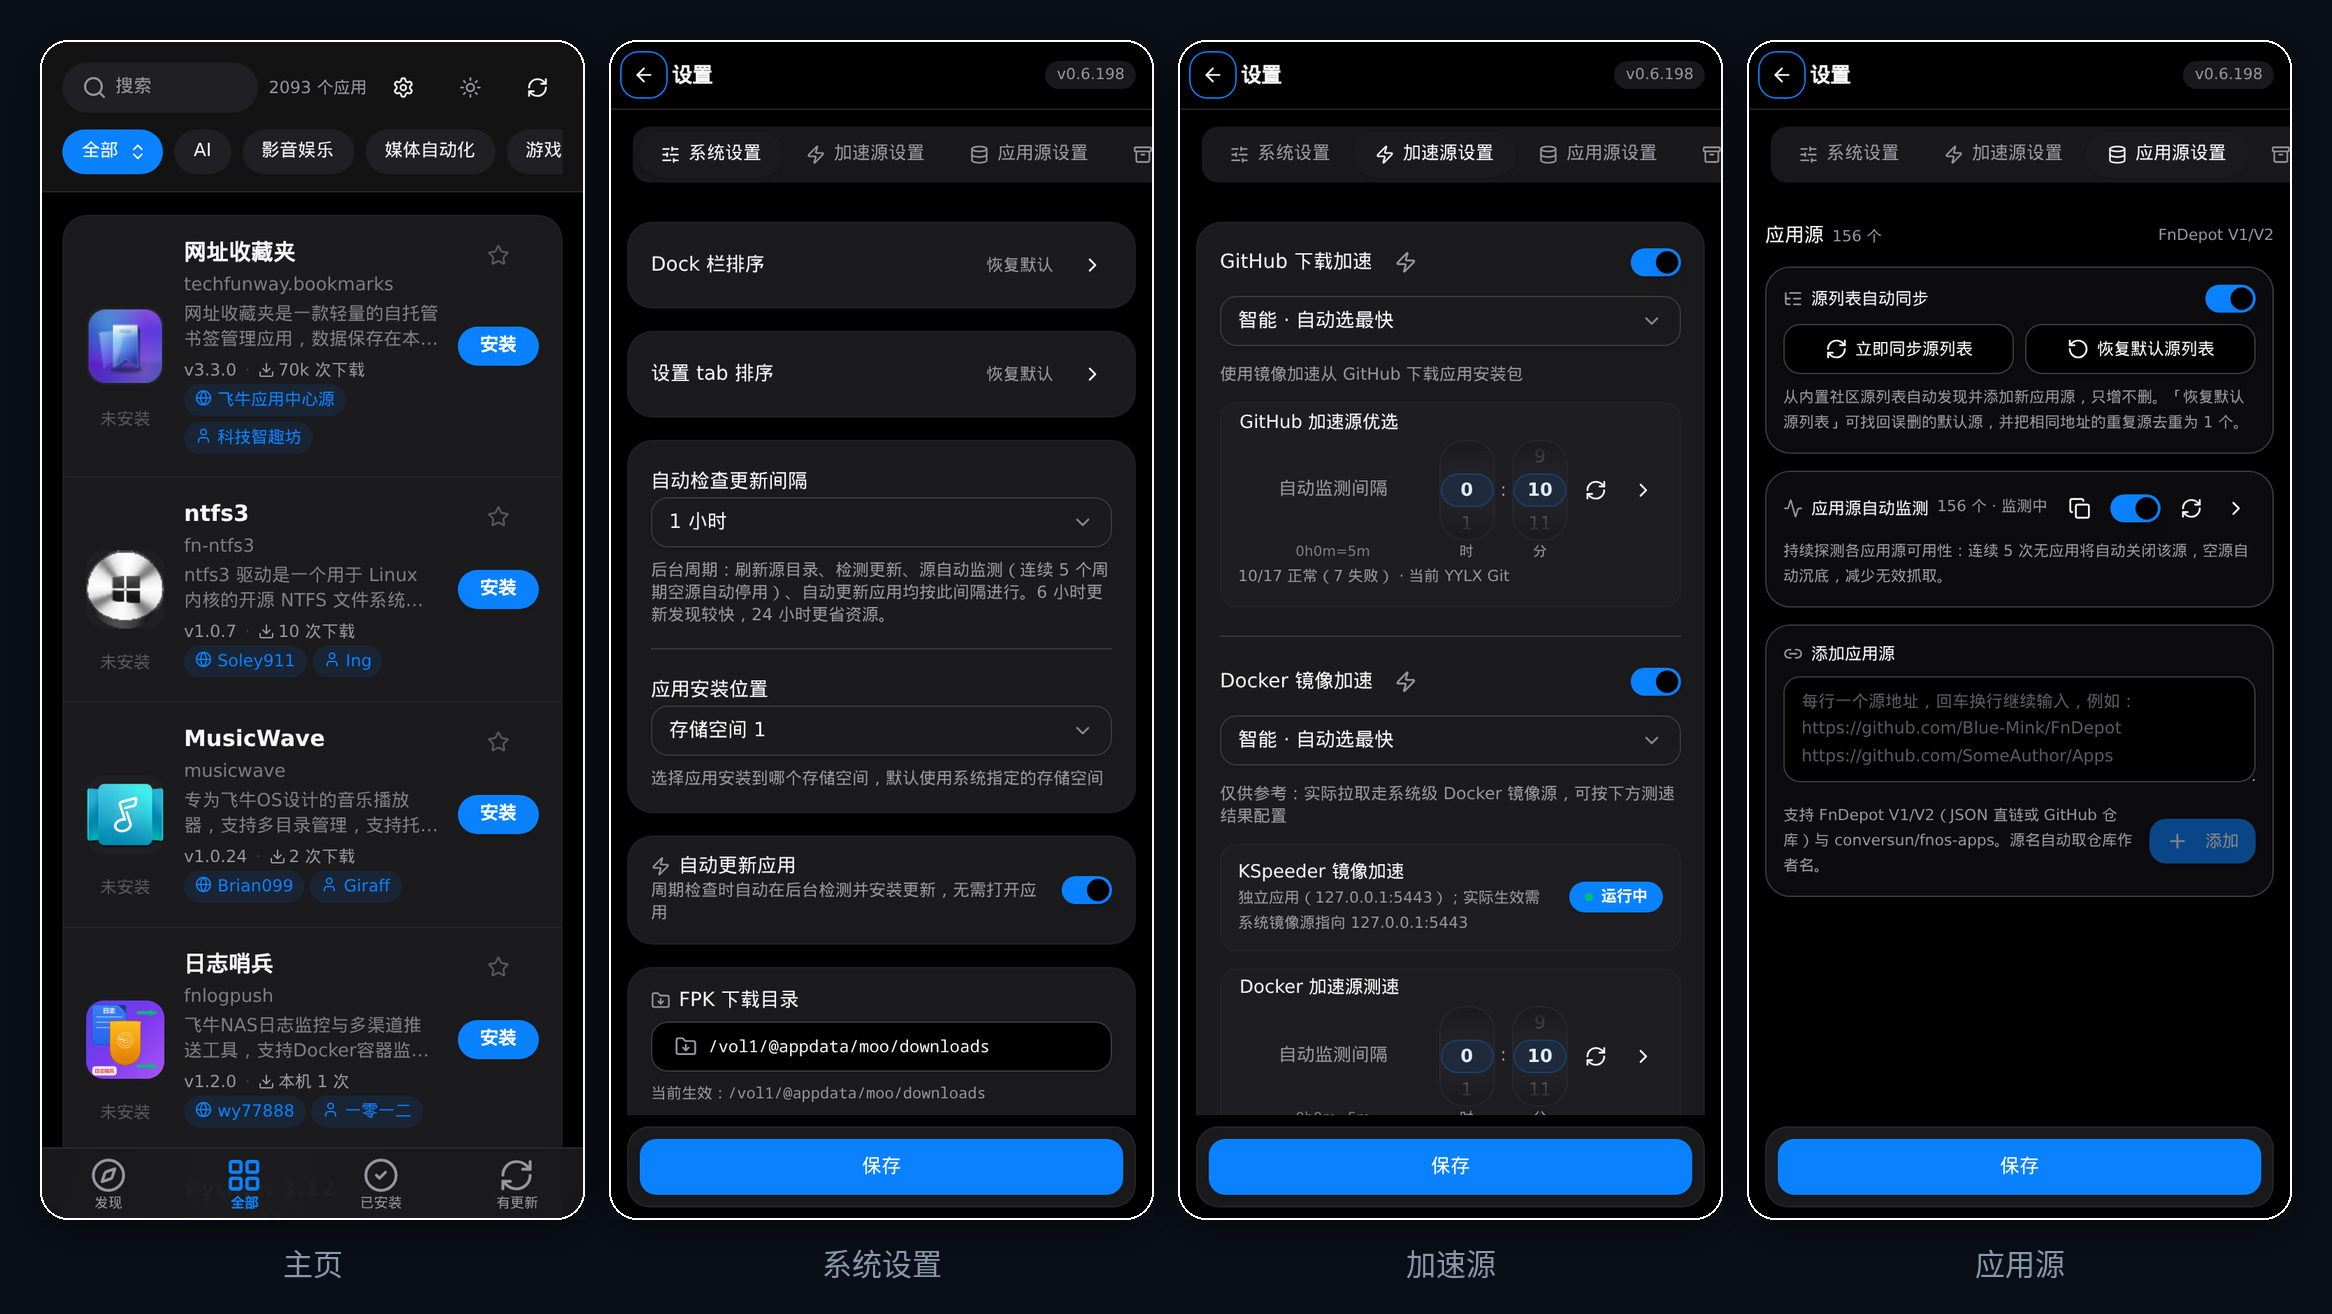
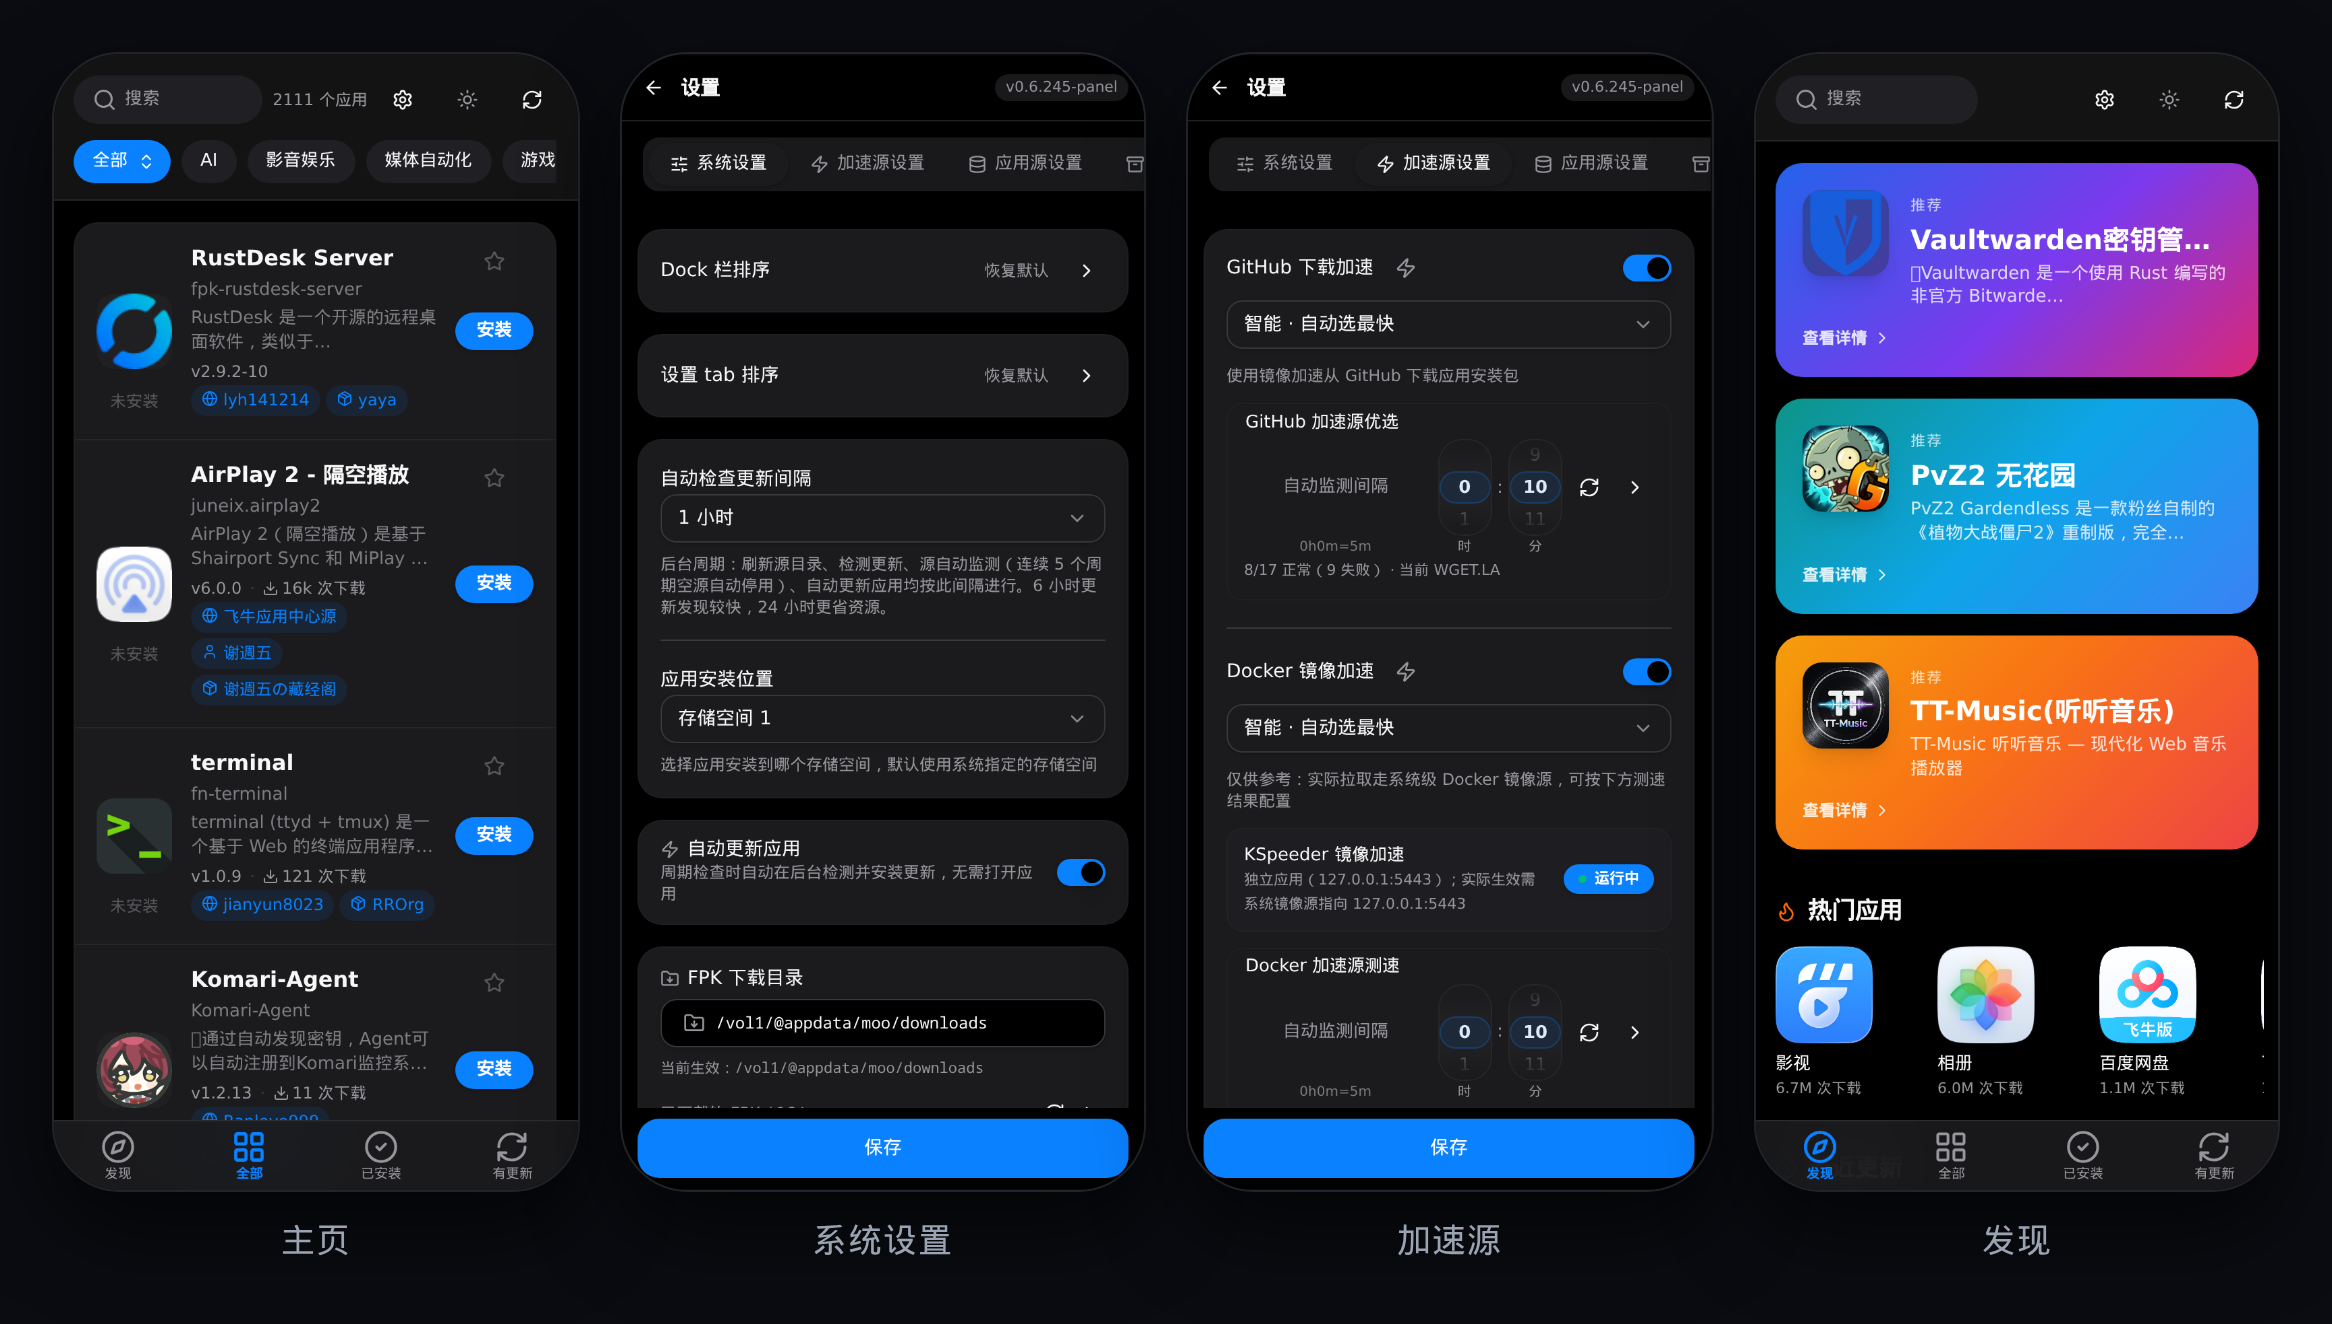
docs(readme): 更新移动端截图为 0.6.245 版本
原移动端联图仍为 v0.6.198（差约 50 个版本）。本次按当前发布版 0.6.245-panel 重拍并重新拼接
（390×844 @2x 手机视图 + 暗底圆角机框 + 下方标签）：
- readme-mobile-1.png：主页 / 系统设置 / 加速源 / 发现（四联图）
- readme-mobile-2.png：备份设置 / 通知设置 / 关于（三联图）

按用户意见未纳入「应用源设置」页；README 两处 alt 文案同步为实际展示的页面。

Changed region(s): [[0.0, 0.0312, 0.988, 0.9673], [0.9262, 0.0312, 0.988, 0.0624]]

diff --git a/README.md b/README.md
@@ -25,13 +25,13 @@
 本仓库包含 Moo 的全部源码：Go 后端（单二进制，web embed）+ React / TypeScript 前端（Vite 构建后内嵌），发布产物为仅 x86_64 的单 FPK。应用目录数据来自三大平台——飞牛官方应用中心、FnDepot、fnos-apps（conversun），Moo 只负责聚合、归类与推送，不修改上游数据。
 
 <p align="center">
-  <img src="docs/readme-mobile-1.png" width="100%" alt="移动端：主页 / 收藏 / 发现（暗黑模式真机）"/><br/>
+  <img src="docs/readme-mobile-1.png" width="100%" alt="移动端（暗黑模式）：主页 / 系统设置 / 加速源 / 发现"/><br/>
   <b>移动端 · 主页 / 收藏 / 发现（暗黑模式）</b><br/>
   App Store 风格列表 · 搜索可直接贴源链接 · 收藏与关注源
 </p>
 
 <p align="center">
-  <img src="docs/readme-mobile-2.png" width="86%" alt="移动端设置（系统 / 加速源 / 应用源 / 备份 / 通知 / 关于）"/><br/>
+  <img src="docs/readme-mobile-2.png" width="86%" alt="移动端设置：备份 / 通知 / 关于"/><br/>
   <b>移动端 · 设置全 tab</b><br/>
   加速源健康自动监测 · 应用源 155 个一键恢复 · 通知内容三档
 </p>
